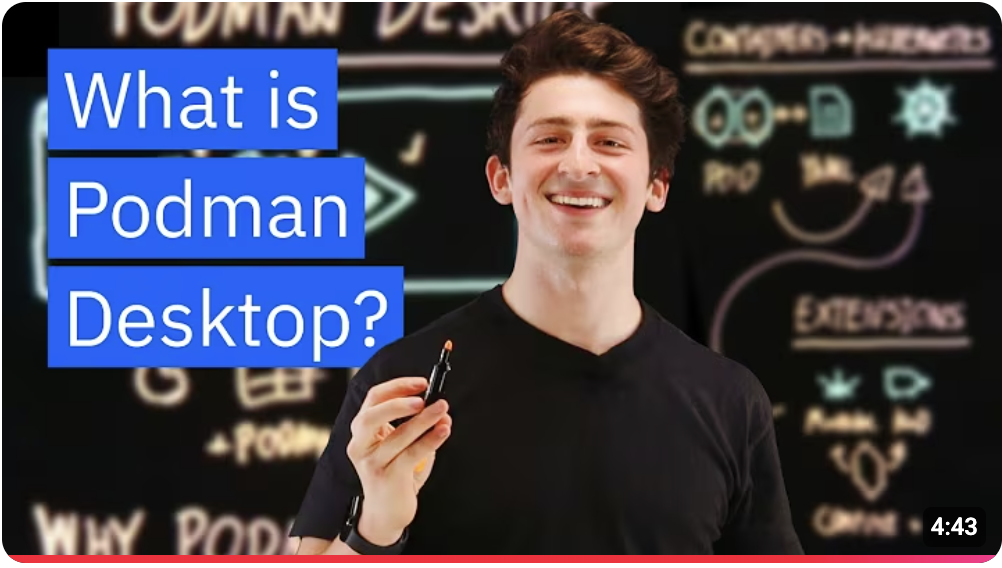
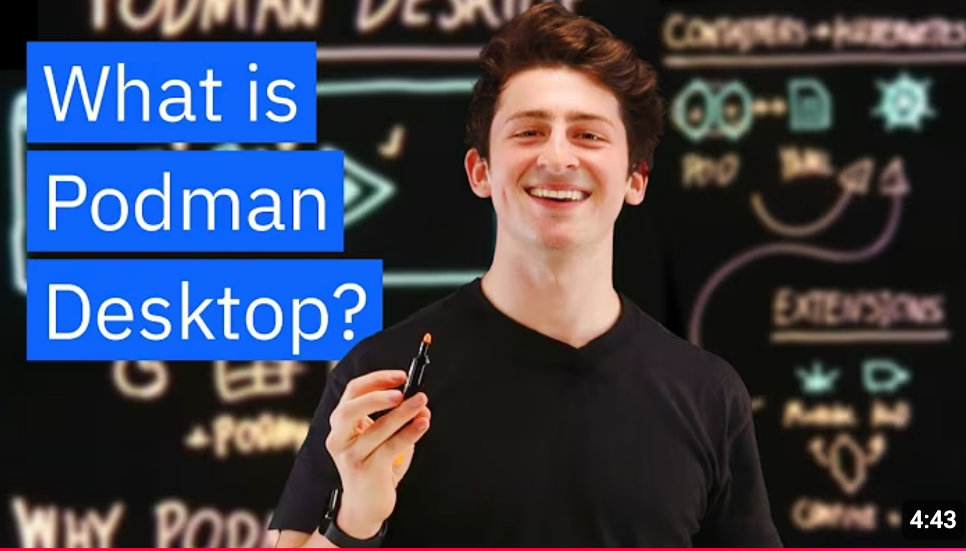
chore(website): corrected image border and size Signed-off-by: Rujuta Shinde <rushinde@redhat.com>

diff --git a/website/src/components/CommunityVideoCard.tsx b/website/src/components/CommunityVideoCard.tsx
@@ -16,7 +16,7 @@ function CommunityVideoCard({ url, thumbnail, caption, alt }: CommunityVideoCard
         <img
           src={thumbnail}
           alt={alt}
-          className="w-[283px] h-[183px] rounded border-2 opacity-100 shadow-lg hover:shadow-xl transition-shadow cursor-pointer"
+          className="w-[243px] h-[134px] rounded border-2 opacity-100 shadow-lg hover:shadow-xl transition-shadow cursor-pointer block object-cover"
         />
         <img
           src="/img/play-overlay-button.png"

diff --git a/website/src/pages/community/index.tsx b/website/src/pages/community/index.tsx
@@ -41,7 +41,7 @@ export default function Home(): JSX.Element {
       url: 'https://www.youtube.com/watch?v=mouu4PR5Dqg',
       thumbnail: '/img/video4.png',
       alt: 'rag-app',
-      caption: 'How to develop a RAG application using Podman AI Lab',
+      caption: 'How to develop a RAG application using Podman Desktop',
     },
   ];
 
